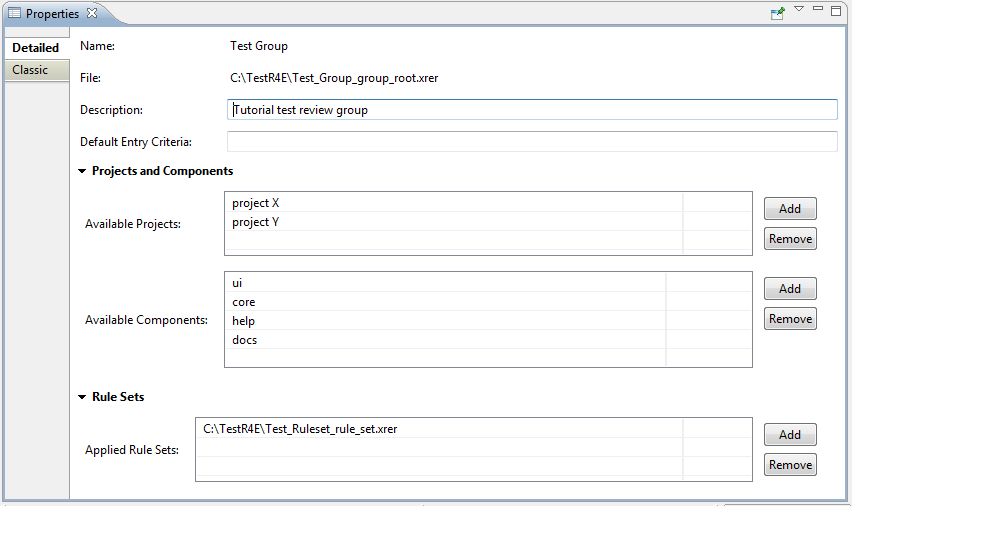
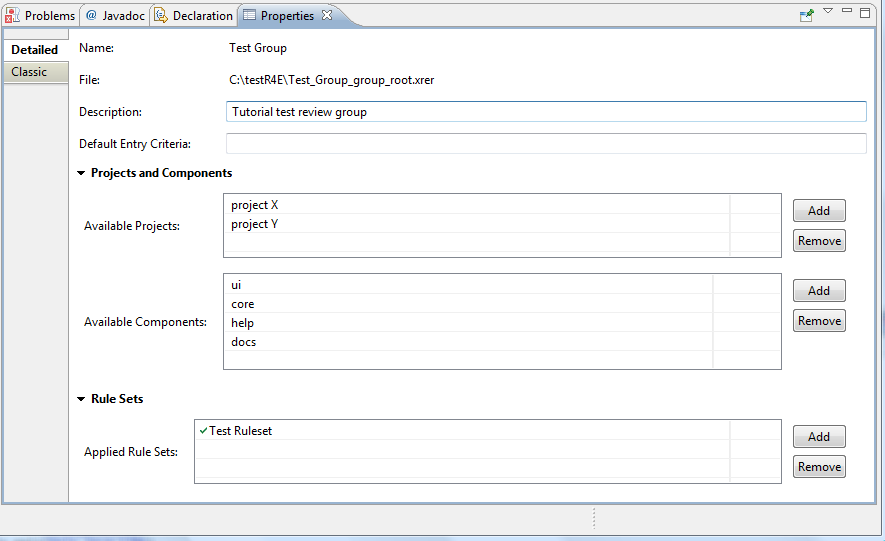
bug 371123: Final commit based on review comments & added Ruleset decorators in Review Group properties applied rulesets table
NEW - bug 371123: Introduce a mechanism to detect meta-model version
compatibility 
https://bugs.eclipse.org/bugs/show_bug.cgi?id=371123

diff --git a/org.eclipse.mylyn.reviews.r4e.ui/src/org/eclipse/mylyn/reviews/r4e/ui/internal/navigator/ReviewNavigatorTreeViewer.java b/org.eclipse.mylyn.reviews.r4e.ui/src/org/eclipse/mylyn/reviews/r4e/ui/internal/navigator/ReviewNavigatorTreeViewer.java
@@ -286,7 +286,7 @@ public class ReviewNavigatorTreeViewer extends TreeViewer {
 		}
 		fTreeColumnLayout.setColumnData(fElementColumn.getColumn(), new ColumnWeightData(100, true));
 
-		//Caculate column weights to preserve (if any)
+		//Calculate column weights to preserve (if any)
 		if (elementColumnWidth != R4EUIConstants.INVALID_VALUE && pathColumnWidth != R4EUIConstants.INVALID_VALUE
 				&& assignColumnWidth != R4EUIConstants.INVALID_VALUE
 				&& numChangesColumnWidth != R4EUIConstants.INVALID_VALUE
@@ -458,14 +458,23 @@ public class ReviewNavigatorTreeViewer extends TreeViewer {
 					StringBuffer buffer = new StringBuffer();
 					if (aElement instanceof R4EUIFileContext) {
 						R4EFileVersion targetVersion = ((R4EUIFileContext) aElement).getTargetFileVersion();
+						R4EFileVersion baseVersion = ((R4EUIFileContext) aElement).getBaseFileVersion();
+						buffer.append(R4EUIConstants.FILE_LABEL);
+						if (null != targetVersion) {
+							buffer.append(UIUtils.getProjectPath(targetVersion));
+						} else if (null != baseVersion) {
+							buffer.append(UIUtils.getProjectPath(baseVersion));
+						} else {
+							buffer.append(INVALID_PATH);
+						}
+						buffer.append(R4EUIConstants.LINE_FEED);
 						buffer.append(VERSION_TARGET_LABEL);
 						if (null == targetVersion) {
 							buffer.append(R4EUIConstants.NO_VERSION_PROPERTY_MESSAGE);
 						} else {
 							buffer.append(targetVersion.getVersionID());
 						}
-						R4EFileVersion baseVersion = ((R4EUIFileContext) aElement).getBaseFileVersion();
-						buffer.append(System.getProperty("line.separator")); //$NON-NLS-1$
+						buffer.append(R4EUIConstants.LINE_FEED);
 						buffer.append(VERSION_BASE_LABEL);
 						if (null == baseVersion) {
 							buffer.append(R4EUIConstants.NO_VERSION_PROPERTY_MESSAGE);
@@ -608,13 +617,11 @@ public class ReviewNavigatorTreeViewer extends TreeViewer {
 				@Override
 				public String getText(Object element) {
 					if (element instanceof R4EUIReviewItem) {
-						return Integer.toString(((R4EUIReviewItem) element).getNumReviewedChanges())
-								+ R4EUIConstants.SEPARATOR
-								+ Integer.toString(((R4EUIReviewItem) element).getNumChanges());
+						return UIUtils.formatNumChanges(((R4EUIReviewItem) element).getNumChanges(),
+								((R4EUIReviewItem) element).getNumReviewedChanges());
 					} else if (element instanceof R4EUIFileContext) {
-						return Integer.toString(((R4EUIFileContext) element).getNumReviewedChanges())
-								+ R4EUIConstants.SEPARATOR
-								+ Integer.toString(((R4EUIFileContext) element).getNumChanges());
+						return UIUtils.formatNumChanges(((R4EUIFileContext) element).getNumChanges(),
+								((R4EUIFileContext) element).getNumReviewedChanges());
 					}
 					return null;
 				}
@@ -647,13 +654,11 @@ public class ReviewNavigatorTreeViewer extends TreeViewer {
 				public void update(ViewerCell cell) {
 					final Object element = cell.getElement();
 					if (element instanceof R4EUIReviewItem) {
-						cell.setText(Integer.toString(((R4EUIReviewItem) element).getNumReviewedChanges())
-								+ R4EUIConstants.SEPARATOR
-								+ Integer.toString(((R4EUIReviewItem) element).getNumChanges()));
+						cell.setText(UIUtils.formatNumChanges(((R4EUIReviewItem) element).getNumChanges(),
+								((R4EUIReviewItem) element).getNumReviewedChanges()));
 					} else if (element instanceof R4EUIFileContext) {
-						cell.setText(Integer.toString(((R4EUIFileContext) element).getNumReviewedChanges())
-								+ R4EUIConstants.SEPARATOR
-								+ Integer.toString(((R4EUIFileContext) element).getNumChanges()));
+						cell.setText(UIUtils.formatNumChanges(((R4EUIFileContext) element).getNumChanges(),
+								((R4EUIFileContext) element).getNumReviewedChanges()));
 					} else {
 						cell.setText(null);
 					}

diff --git a/org.eclipse.mylyn.reviews.r4e.ui/src/org/eclipse/mylyn/reviews/r4e/ui/internal/utils/UIUtils.java b/org.eclipse.mylyn.reviews.r4e.ui/src/org/eclipse/mylyn/reviews/r4e/ui/internal/utils/UIUtils.java
@@ -157,7 +157,7 @@ public class UIUtils {
 	 * to the current one, or in Read-only mode, which will preserve its version.\n"")
 	 */
 	private static final String COMPATIBILITY_WARNING_MESSAGE = "You are trying to open an older version of the element than the one currently handled by this version of R4E.\n"
-			+ "You can open the element normally, which will upgrade its version to the current one, or in Read-only mode, which will preserve its version.\n";
+			+ "You can open the element normally, which will upgrade its version to the current one, or in Read-only mode, which will preserve its version.";
 
 	/**
 	 * Field COMPATIBILITY_WARNING_DIALOG_BUTTONS.
@@ -236,9 +236,9 @@ public class UIUtils {
 	public static int displayCompatibilityWarningDialog(String aDataVersion, String aApplVersionl) {
 		R4EUIPlugin.Ftracer.traceWarning(COMPATIBILITY_WARNING_MESSAGE);
 		final MessageDialog dialog = new MessageDialog(null, COMPATIBILITY_WARNING_DIALOG_TITLE, null,
-				COMPATIBILITY_WARNING_MESSAGE + "Data Version: " + aDataVersion + R4EUIConstants.LINE_FEED
-						+ "Application Version: " + aApplVersionl, MessageDialog.QUESTION_WITH_CANCEL,
-				COMPATIBILITY_WARNING_DIALOG_BUTTONS, 0);
+				COMPATIBILITY_WARNING_MESSAGE + R4EUIConstants.LINE_FEED + "Element meta-data Version: " + aDataVersion
+						+ R4EUIConstants.LINE_FEED + "Application meta-data Version: " + aApplVersionl,
+				MessageDialog.QUESTION_WITH_CANCEL, COMPATIBILITY_WARNING_DIALOG_BUTTONS, 0);
 		return dialog.open();
 	}
 
@@ -783,5 +783,18 @@ public class UIUtils {
 			// Ignore
 		}
 		return path;
+	}
+
+	/**
+	 * Method formatNumChanges. formats the NumChanges value for UI display
+	 * 
+	 * @param aNumChanges
+	 *            int
+	 * @param aNumReviewedChanges
+	 *            int
+	 * @return String
+	 */
+	public static String formatNumChanges(int aNumChanges, int aNumReviewedChanges) {
+		return Integer.toString(aNumReviewedChanges) + R4EUIConstants.SEPARATOR + Integer.toString(aNumChanges);
 	}
 }

diff --git a/org.eclipse.mylyn.reviews.r4e.ui/src/org/eclipse/mylyn/reviews/r4e/ui/internal/properties/tabbed/ReviewGroupTabPropertySection.java b/org.eclipse.mylyn.reviews.r4e.ui/src/org/eclipse/mylyn/reviews/r4e/ui/internal/properties/tabbed/ReviewGroupTabPropertySection.java
@@ -486,6 +486,18 @@ public class ReviewGroupTabPropertySection extends ModelElementTabPropertySectio
 				}
 			}
 			item.setText(ruleSet);
+
+			//Decorate rule set item if it is not loaded
+			item.setImage(null);
+			List<R4EUIRuleSet> loadedRuleSets = R4EUIModelController.getRootElement().getRuleSets();
+			for (R4EUIRuleSet loadedRuleSet : loadedRuleSets) {
+				if (ruleSet.equals(loadedRuleSet.getName())) {
+					item.setImage(fProperties.getElement().getUserReviewedImage());
+				}
+			}
+			if (null == item.getImage()) {
+				item.setImage(fProperties.getElement().getDisabledImage());
+			}
 		}
 
 		setEnabledFields();

diff --git a/org.eclipse.mylyn.reviews.r4e.ui/src/org/eclipse/mylyn/reviews/r4e/ui/internal/model/R4EUIModelController.java b/org.eclipse.mylyn.reviews.r4e.ui/src/org/eclipse/mylyn/reviews/r4e/ui/internal/model/R4EUIModelController.java
@@ -173,7 +173,7 @@ public class R4EUIModelController {
 	 * 
 	 * @return the root R4E element
 	 */
-	public static IR4EUIModelElement getRootElement() {
+	public static R4EUIRootElement getRootElement() {
 		return FRootElement;
 	}
 
